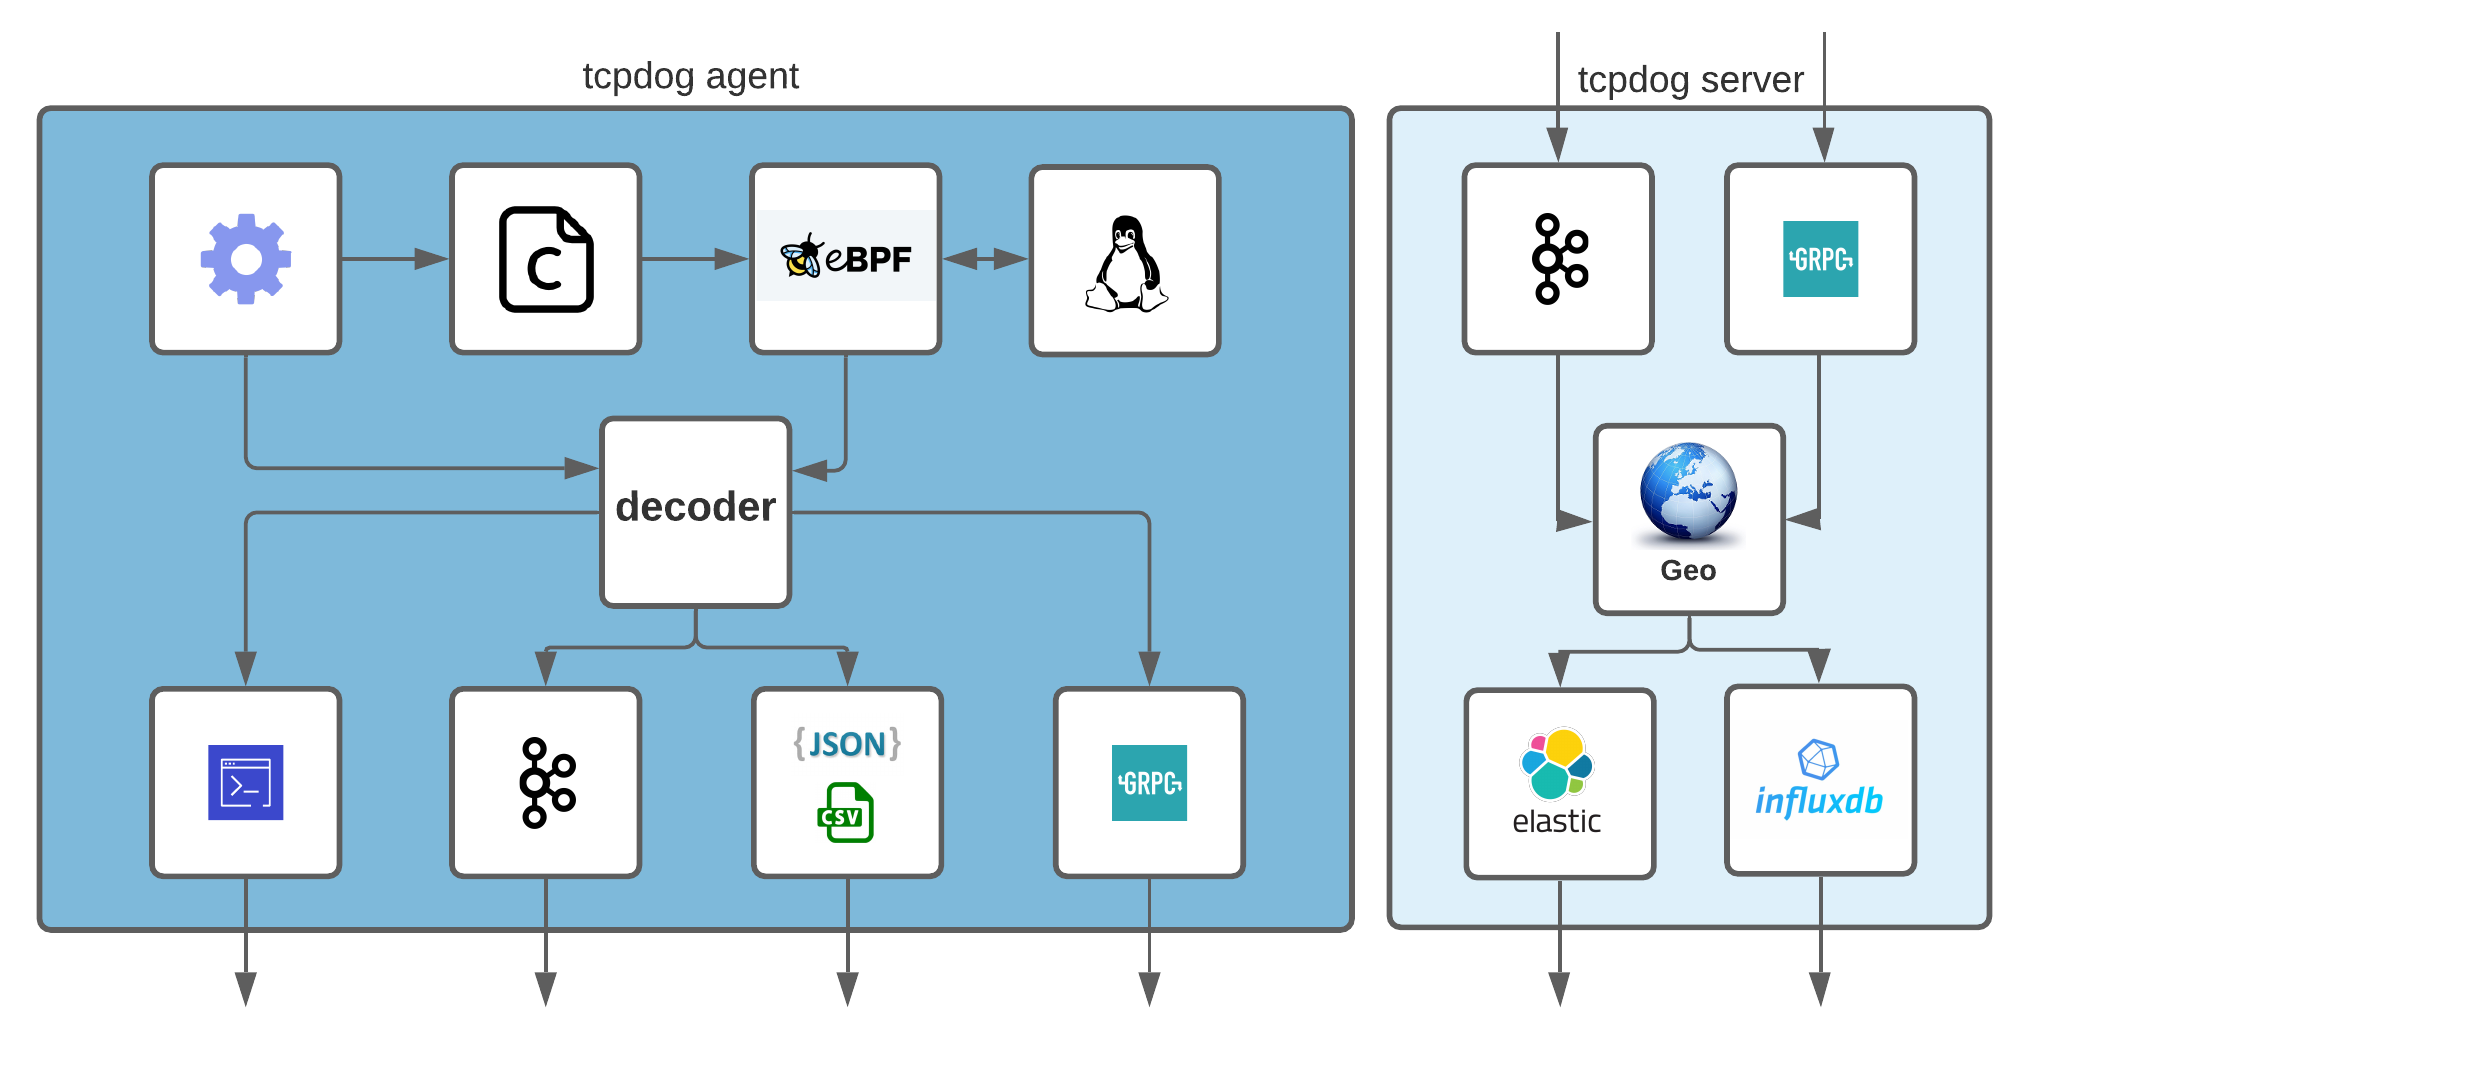
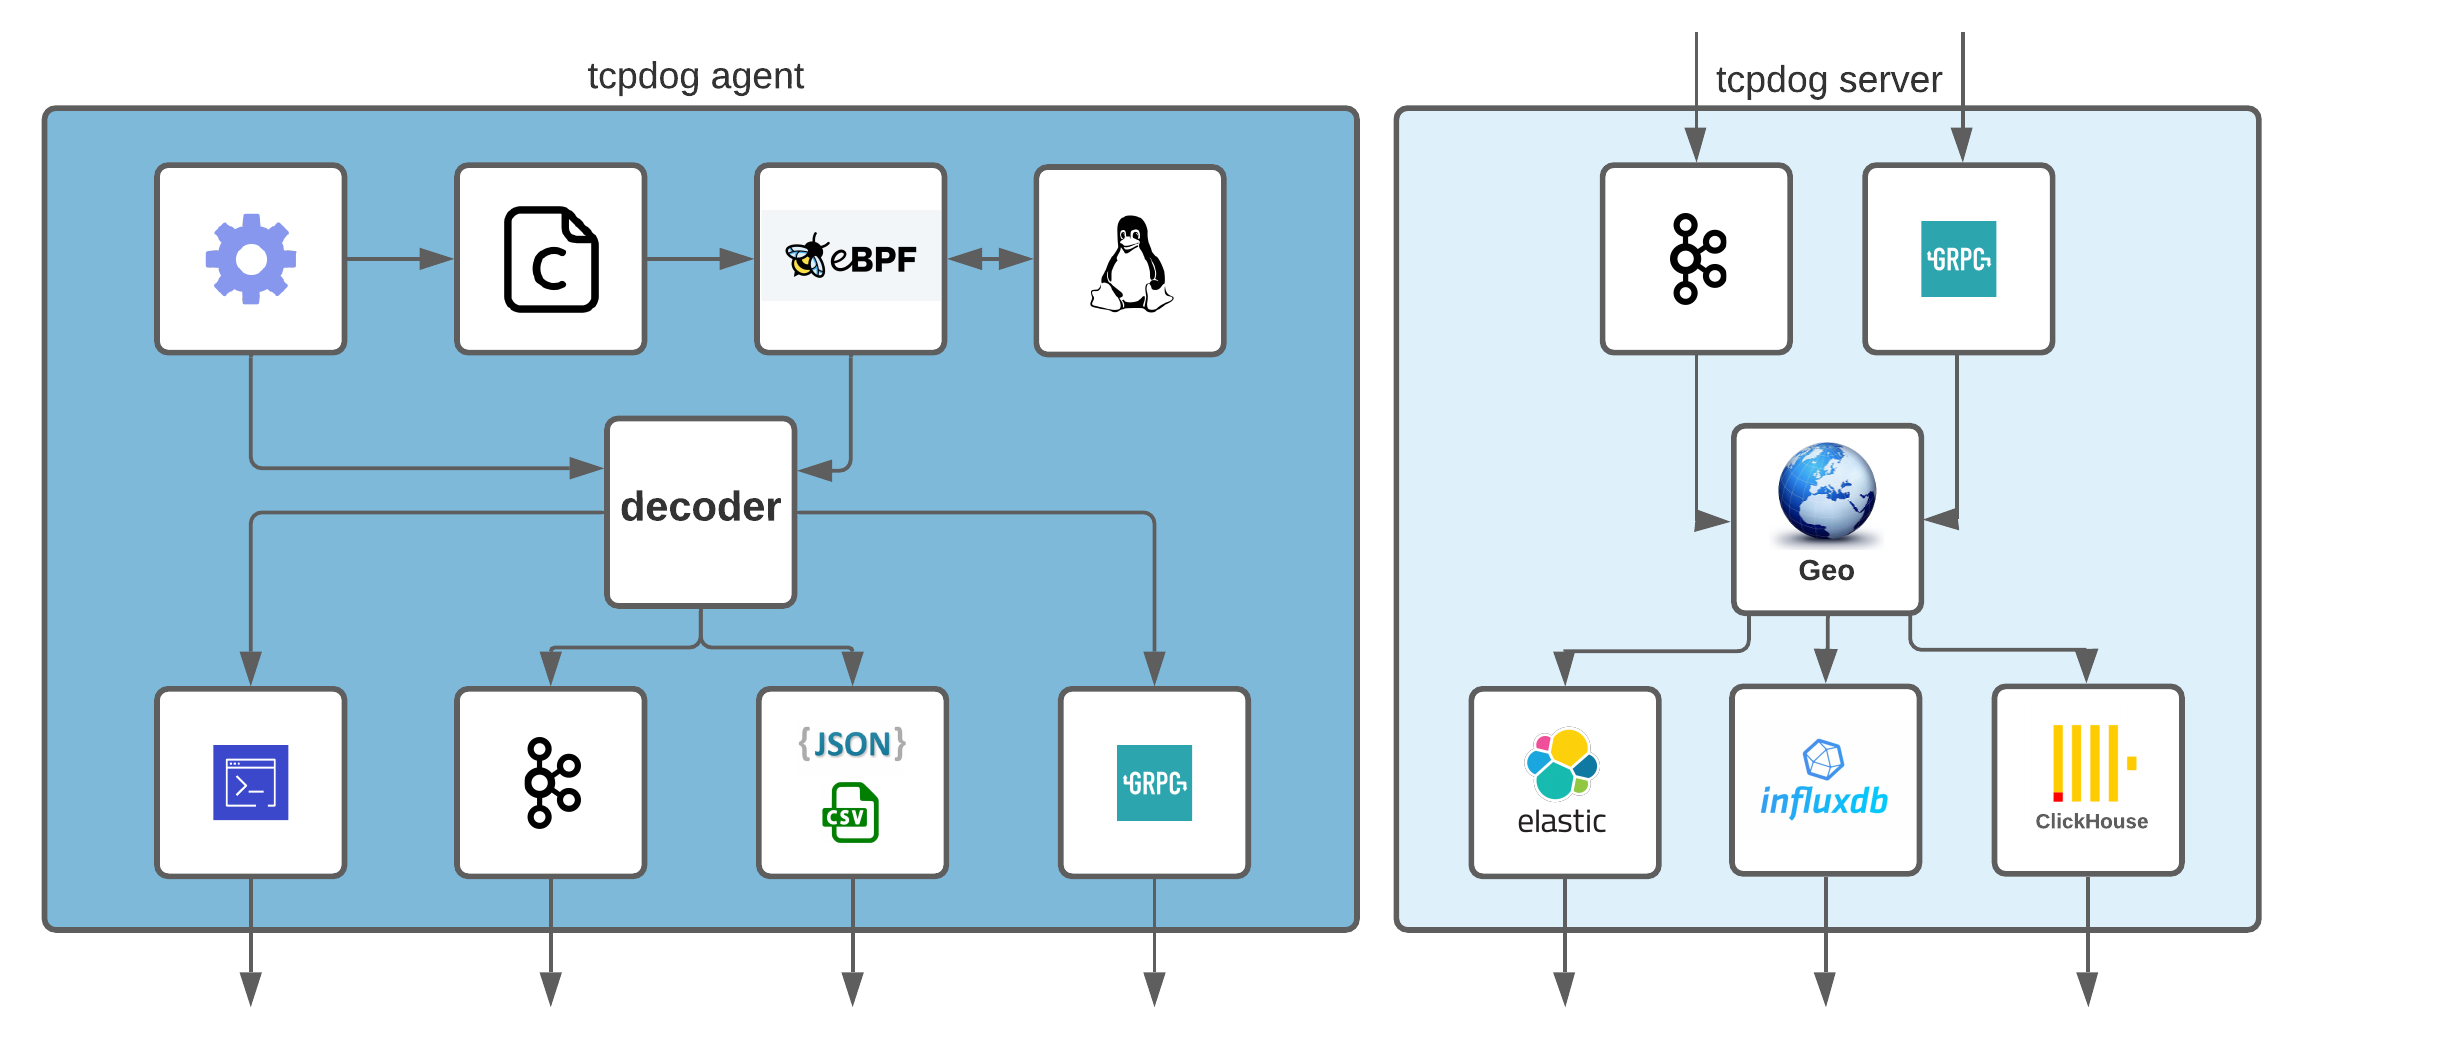
update

diff --git a/README.md b/README.md
@@ -9,7 +9,7 @@ TCPDog is a total solution from exporting TCP statistics from Linux kernel by eB
 - TCP socket stats by eBPF TCP tracepoints.
 - Supports all [TCP tracepoints](https://github.com/mehrdadrad/tcpdog/wiki/tracepoints) simultaneously.
 - Customizable [TCP fields](https://github.com/mehrdadrad/tcpdog/wiki/metrics) at kernel space. 
-- Ingest to Elasticsearch or InfluxDB.
+- Ingest to Elasticsearch, ClickHouse or InfluxDB.
 - Central collection through gRPC or Kafka.
 - Supports sampling and filtering at kernel space.
 - Supports Geo and ASN by Maxmind.
@@ -24,6 +24,7 @@ TCPDog is a total solution from exporting TCP statistics from Linux kernel by eB
 * [Quick start](https://github.com/mehrdadrad/tcpdog/wiki/quick-start)
 * [Agent config](https://github.com/mehrdadrad/tcpdog/wiki/agent-config)
 * [Server config](https://github.com/mehrdadrad/tcpdog/wiki/server-config)
+* [Benchmark](https://github.com/mehrdadrad/tcpdog/wiki/benchmark)
 
 ### Sample Elasticsearch reports
 #### Polygon map and table
